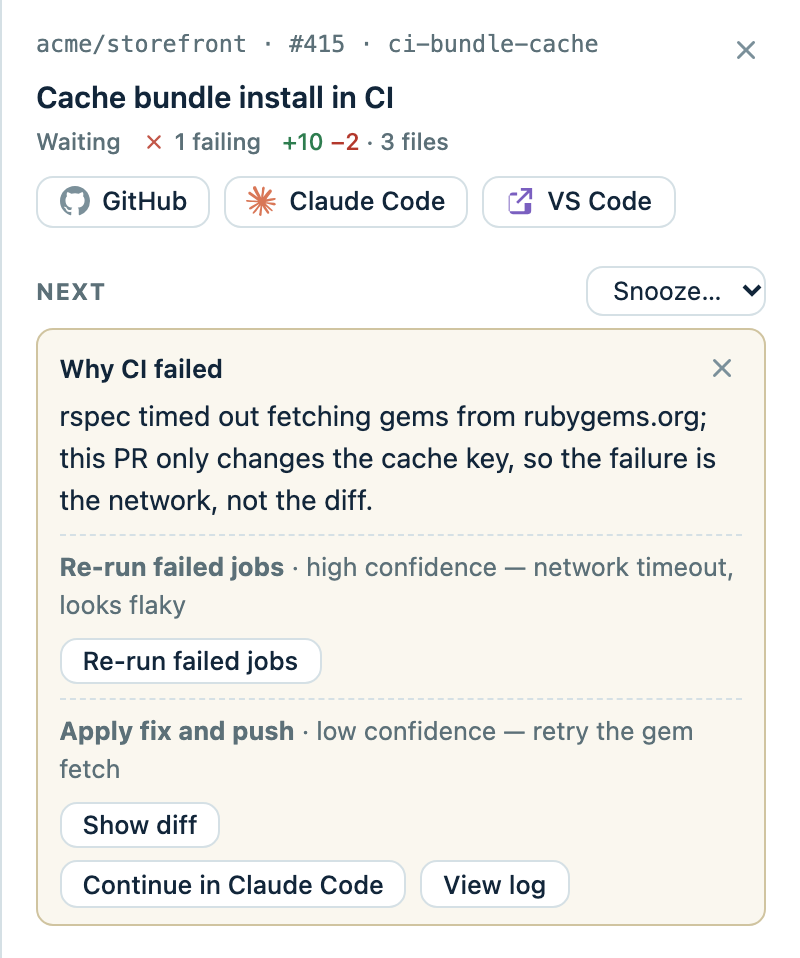
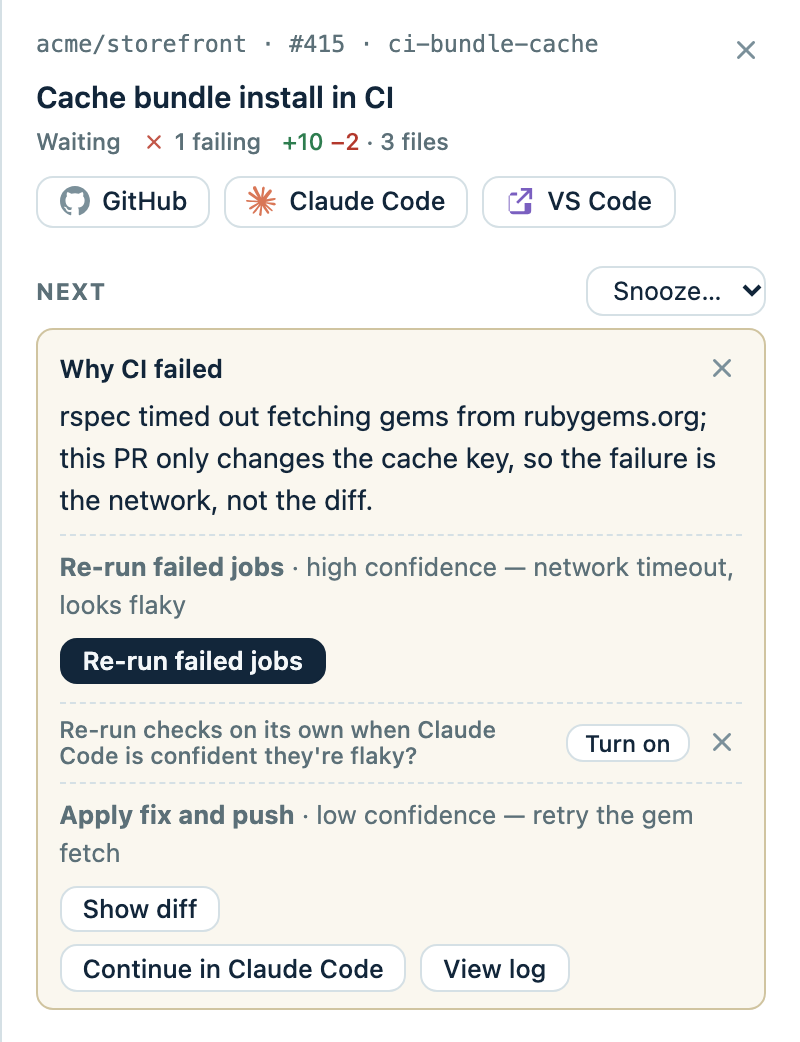
Give each Next card one primary button
A card's buttons all carried the same weight, so the recommended step
looked no different from the alternatives. The first proposal that runs
from the card now leads, or the chip's own action when no pass has run.
A fix stays plain behind its diff, and a choice between two equals
(merge the base in or rebase) keeps both plain.

The button that starts a session with the rule's prompt now reads
"Address in new session", so it no longer looks like a twin of
"Continue in Claude Code", which resumes the pinned one.

diff --git a/js/sidebar.js b/js/sidebar.js
@@ -139,16 +139,16 @@ function continueTarget(pr) {
   return target && { path: target.path, session: target.session.id };
 }
 
-function continueButton(pr) {
+function continueButton(pr, cls = "") {
   const target = continueTarget(pr);
-  return target ? sessionLink(target.path, target.session, `Continue in ${esc(agentName())}`, "btn-link", prKey(pr)) : "";
+  return target ? sessionLink(target.path, target.session, `Continue in ${esc(agentName())}`, `btn-link ${cls}`, prKey(pr)) : "";
 }
 
 // A new session with the rule's prompt typed in; agents without a prompt URL resume instead.
-function promptButton(pr, rule, verb) {
+function promptButton(pr, rule, verb, cls = "") {
   const url = state.agent?.prompt_url;
   const template = state.rules?.[rule]?.prompt;
-  if (!url || !template) return continueButton(pr);
+  if (!url || !template) return continueButton(pr, cls);
   const prompt = template.replaceAll("{url}", pr.url).replaceAll("{repo}", pr.repository?.nameWithOwner || "")
     .replaceAll("{number}", pr.number).replaceAll("{branch}", pr.headRefName || "").replaceAll("{base}", pr.baseRefName || "");
   // A pin can sit in a clone that has since switched off your branch.
@@ -157,7 +157,7 @@ function promptButton(pr, rule, verb) {
   const link = url.replaceAll("{prompt}", encodeURIComponent(prompt));
   const make = path || review ? "" : ` data-make-worktree="${esc(link)}"`;
   const href = link.replaceAll("{path}", encodeURIComponent(path));
-  return `<a class="btn-link" data-continue="${esc(prKey(pr))}"${make} href="${esc(href)}" title="${esc(prompt)}">${esc(verb)} in ${esc(agentName())}</a>`;
+  return `<a class="btn-link ${cls}" data-continue="${esc(prKey(pr))}"${make} href="${esc(href)}" title="${esc(prompt)}">${esc(verb)} in new session</a>`;
 }
 
 function sidebarHeader(pr) {
@@ -204,7 +204,7 @@ function verdictHtml(p) {
 
 const cancelWaitButton = (card) => `<button type="button" data-cancel-wait="${card.id}">Cancel re-run</button>`;
 
-function proposalHtml(pr, card, p, i, bare = false) {
+function proposalHtml(pr, card, p, i, bare = false, lead = false) {
   if (p.action === "continue") return p.reason ? `<p class="nc-reason">${fmtCode(p.reason)}</p>` : "";
   if (p.action === "finish_on_github") {
     const n = p.payload?.comments || 0;
@@ -242,7 +242,7 @@ function proposalHtml(pr, card, p, i, bare = false) {
       body += `<ul class="nc-inline">${inline.map((c) => `<li><code>${esc(c.path)}:${esc(c.line)}</code> ${fmtCode(c.body)}</li>`).join("")}</ul>`;
     }
   }
-  let button = `<button type="button" class="nc-run${bare && p.action === "approve" ? " primary" : ""}" data-card="${card.id}" data-index="${i}" data-action="${esc(p.action)}" data-field="${field}">${esc(label)}</button>`;
+  let button = `<button type="button" class="nc-run${lead || (bare && p.action === "approve") ? " primary" : ""}" data-card="${card.id}" data-index="${i}" data-action="${esc(p.action)}" data-field="${field}">${esc(label)}</button>`;
   if (p.action === "apply_fix") {
     // Never the default: the diff shows first, and the button stays plain.
     button = shownDiffs.has(field)
@@ -286,7 +286,7 @@ function serverCardHtml(pr, card, first) {
   }
   if (card.kind === "offer") {
     return `<div class="${cls}"><div class="nc-head">${title}${dismiss}</div>
-      <div class="nc-actions"><button type="button" data-run-pass="${esc(card.pass)}">Ask ${esc(agentName())}</button>${continueButton(pr)}</div>
+      <div class="nc-actions"><button type="button" class="primary" data-run-pass="${esc(card.pass)}">Ask ${esc(agentName())}</button>${continueButton(pr)}</div>
       ${card.pass === "pre_review" ? suggestHtml("pre_review") : ""}</div>`;
   }
   if (card.kind === "error" || card.kind === "raw") {
@@ -299,7 +299,7 @@ function serverCardHtml(pr, card, first) {
   if (card.kind === "proposal") {
     return `<div class="${cls}"><div class="nc-head">${fmtCode(card.title)}${dismiss}</div>
       <p class="nc-reason">${fmtCode(card.summary || "")}</p>
-      <div class="nc-actions"><button type="button" class="nc-run" data-card="${card.id}" data-index="0" data-action="${esc(card.action)}">${esc(ACTION_LABELS[card.action] || "Do it")}</button>
+      <div class="nc-actions"><button type="button" class="nc-run primary" data-card="${card.id}" data-index="0" data-action="${esc(card.action)}">${esc(ACTION_LABELS[card.action] || "Do it")}</button>
         <button type="button" data-dismiss="${card.id}">Dismiss</button></div></div>`;
   }
   const chip = card.pass === "feedback"
@@ -315,16 +315,21 @@ function serverCardHtml(pr, card, first) {
     : card.auto_wait?.until ? `<p class="nc-held">Auto-approves at ${esc(new Date(card.auto_wait.until).toLocaleTimeString([], { hour: "numeric", minute: "2-digit" }))}, a few minutes after the push.</p>`
     : card.auto_wait?.manual ? `<p class="nc-held">Re-runs the failed jobs once the rest of the workflow run finishes.</p>`
     : card.auto_wait ? `<p class="nc-held">Re-runs the failed checks automatically once the running ones finish.</p>` : "";
-  const proposals = (card.proposals || []).map((p, i) => proposalHtml(pr, card, p, i, i === vi)).join("");
+  // One button leads: the first proposal that runs from here, or Continue when the agent only said to carry on.
+  // A review card's verdict already leads, and a fix stays behind its diff.
+  const list = card.proposals || [];
+  const lead = vi >= 0 ? -1 : list.findIndex((p) => !["continue", "apply_fix"].includes(p.action) && !(p.action === "rerun_checks" && card.auto_wait?.manual));
+  const leadContinue = vi < 0 && lead < 0 && list.some((p) => p.action === "continue");
+  const proposals = list.map((p, i) => proposalHtml(pr, card, p, i, i === vi, i === lead)).join("");
   return `<div class="${cls}"><div class="nc-head">${title}${dismiss}</div>${verdict}${held}
     ${verdict ? '<div class="nc-label">Summary</div>' : ""}<p>${fmtCode(card.summary || "")}</p>${proposals}
-    ${review && !openKept ? "" : `<div class="nc-actions">${openKept}${review ? "" : continueButton(pr)}${rerun}${rerequest}${viewLog}</div>`}</div>`;
+    ${review && !openKept ? "" : `<div class="nc-actions">${openKept}${review ? "" : continueButton(pr, leadContinue ? "primary" : "")}${rerun}${rerequest}${viewLog}</div>`}</div>`;
 }
 
-function rerequestButton(reviewers, cardId) {
+function rerequestButton(reviewers, cardId, cls = "") {
   if (!reviewers?.length) return "";
   const done = cardId ? ` data-done-card="${cardId}"` : "";
-  return `<button type="button" class="nc-run" data-pr-action="rerequest_review" data-reviewers="${esc(reviewers.join(","))}"${done}>Re-request review</button>`;
+  return `<button type="button" class="nc-run ${cls}" data-pr-action="rerequest_review" data-reviewers="${esc(reviewers.join(","))}"${done}>Re-request review</button>`;
 }
 
 // With no card from the server, the chip still implies the buttons that fit it.
@@ -333,20 +338,20 @@ function derivedCardHtml(pr, chip) {
   const key = prKey(pr);
   const field = `d-${key}-${chip.kind}`;
   const run = (action, label, cls = "") => `<button type="button" class="nc-run ${cls}" data-pr-action="${esc(action)}" data-field="${esc(field)}">${esc(label)}</button>`;
-  const rerequest = rerequestButton(chip.reviewers);
+  const rerequest = rerequestButton(chip.reviewers, null, chip.kind === "address_feedback" ? "" : "primary");
   let body = "";
   let actionsHtml = "";
   if (chip.kind === "merge") {
     body = "Approved and checks are green.";
-    actionsHtml = run("merge", "Merge") + (pr.viewerCanEnableAutoMerge ? run("enable_auto_merge", "Enable auto-merge") : "");
+    actionsHtml = run("merge", "Merge", "primary") + (pr.viewerCanEnableAutoMerge ? run("enable_auto_merge", "Enable auto-merge") : "");
   } else if (chip.kind === "rerequest_mine") {
     body = `@${chip.author} updated this after you requested changes but hasn't asked you to look again. Put it back in your review queue:`;
-    actionsHtml = rerequestButton([state.viewer]);
+    actionsHtml = rerequestButton([state.viewer], null, "primary");
   } else if (chip.kind === "nudge") {
     const owner = (pr.repository?.nameWithOwner || "").split("/")[0];
     const mentions = (chip.reviewers || []).map((r) => r.startsWith("team:") ? `@${owner}/${r.slice(5)}` : `@${r}`).join(" ");
     body = `Waiting on review for ${chip.label.split("· ")[1] || "a while"}. The nudge posts as a PR comment under your name:`;
-    actionsHtml = textField(field, `${mentions} friendly nudge: this is ready for review when you have a minute. Thanks!`) + run("nudge", "Post nudge");
+    actionsHtml = textField(field, `${mentions} friendly nudge: this is ready for review when you have a minute. Thanks!`) + run("nudge", "Post nudge", "primary");
   } else if (chip.kind === "ask_approval") {
     body = `${chip.reviewers.join(", ")} signed off in a comment, but GitHub still needs an approval to merge. Ask again so it lands in their review queue:`;
     actionsHtml = rerequest;
@@ -358,7 +363,7 @@ function derivedCardHtml(pr, chip) {
     const verb = chip.approval ? "approved with comments"
       : pr.reviewDecision === "CHANGES_REQUESTED" ? "requested changes" : "left review comments";
     body = `${chip.reviewers.join(", ")} ${verb}${open ? ` · ${open} open thread${open === 1 ? "" : "s"}` : ""}.`;
-    actionsHtml = (chip.approval ? afterApprovalButton(pr) : "") + promptButton(pr, "address_feedback", "Address") + (chip.approval
+    actionsHtml = (chip.approval ? afterApprovalButton(pr) : "") + promptButton(pr, "address_feedback", "Address", chip.approval ? "" : "primary") + (chip.approval
       ? `<a class="btn-link" href="${esc(pr.url)}" target="_blank" rel="noopener">View on GitHub</a>` : rerequest);
   } else if (chip.kind === "resolve_conflicts") {
     body = `This branch conflicts with ${pr.baseRefName || "its base"}, so it can't merge until they're resolved.`;
@@ -376,7 +381,7 @@ function derivedCardHtml(pr, chip) {
   } else if (PASS_FOR_CHIP[chip.kind]) {
     body = { fix_ci: `Failing: ${failingChecks(pr).map((c) => c.name).join(", ") || "checks"}.`,
       review: "Your review is requested.", re_review: "The author asked you to look again." }[chip.kind];
-    actionsHtml = `<button type="button" data-run-pass="${PASS_FOR_CHIP[chip.kind]}">Ask ${esc(agentName())}</button>` + continueButton(pr)
+    actionsHtml = `<button type="button" class="primary" data-run-pass="${PASS_FOR_CHIP[chip.kind]}">Ask ${esc(agentName())}</button>` + continueButton(pr)
       + (chip.kind === "fix_ci" && failingChecks(pr)[0]?.url ? `<a class="btn-link" href="${esc(failingChecks(pr)[0].url)}" target="_blank" rel="noopener">View log</a>` : "");
   } else {
     return "";
